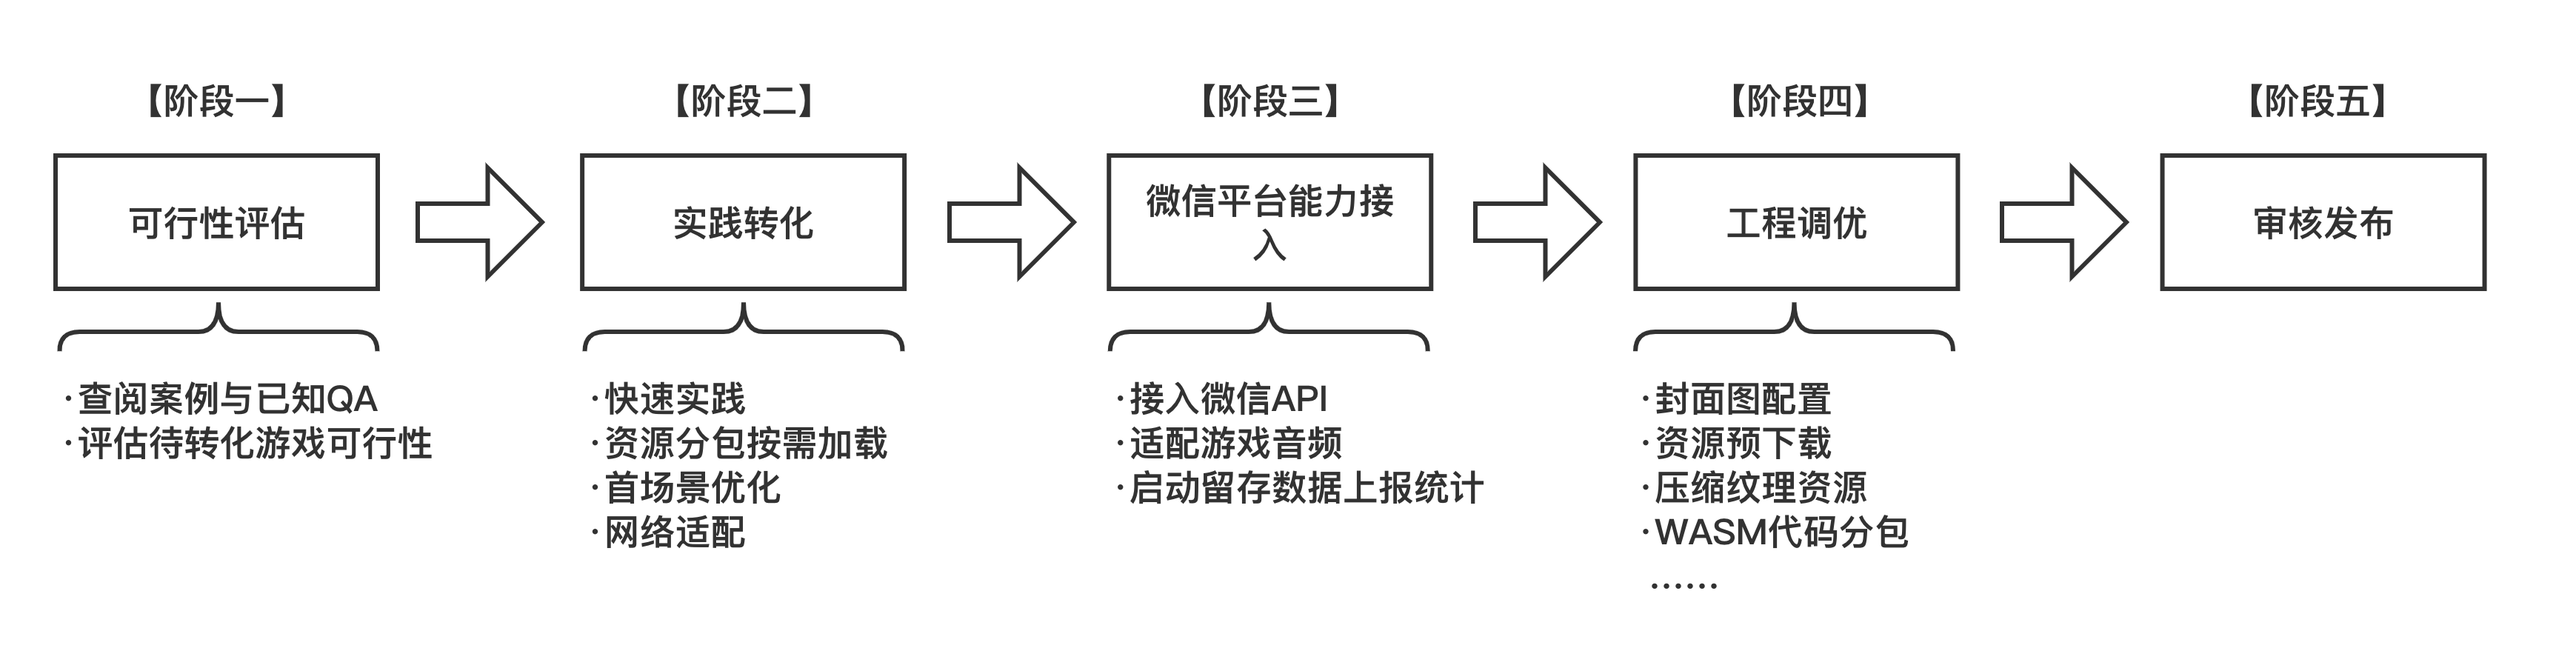
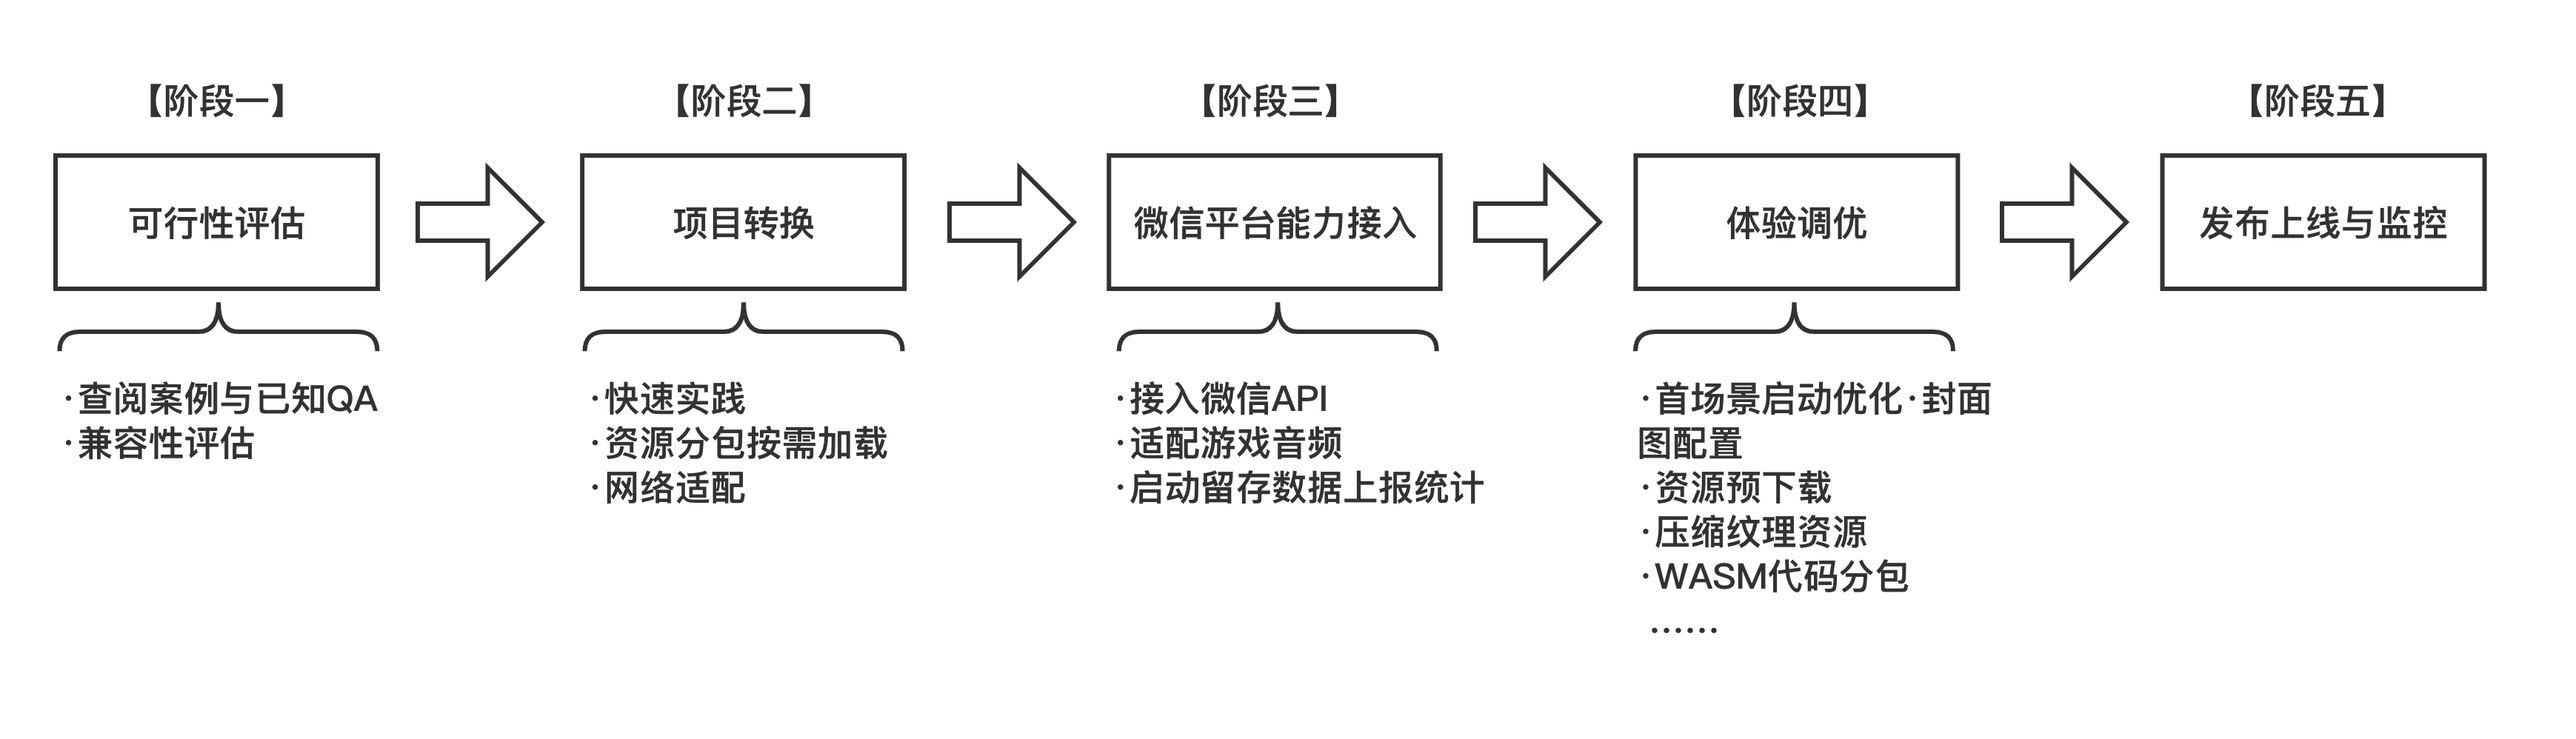
docs: Unity convert guide

diff --git a/Design/Guide.md b/Design/Guide.md
@@ -8,7 +8,7 @@
 - [【阶段二】项目转换](#阶段二项目转换)
 - [【阶段三】微信平台能力接入](#阶段三微信平台能力接入)
 - [【阶段四】体验调优](#阶段四体验调优)
-- [【阶段五】审核发布](#阶段五审核发布)
+- [【阶段五】发布上线与现网监控](#阶段五发布上线与现网监控)
 
 
 
